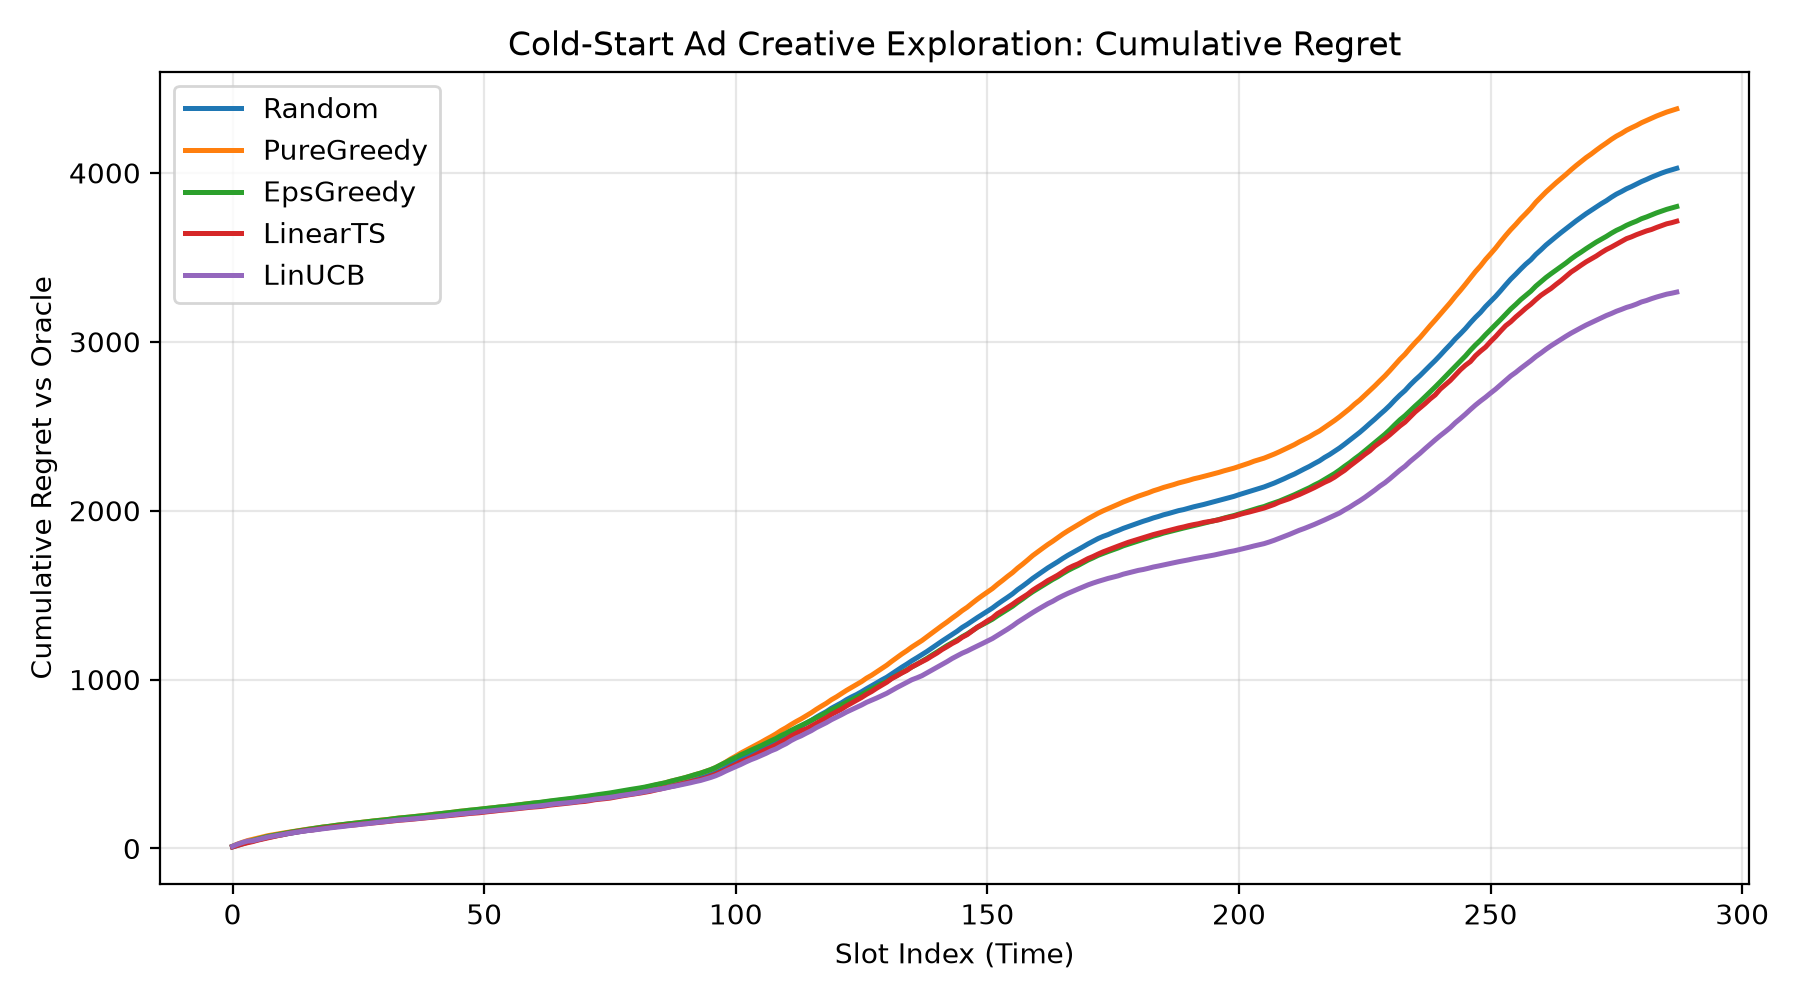
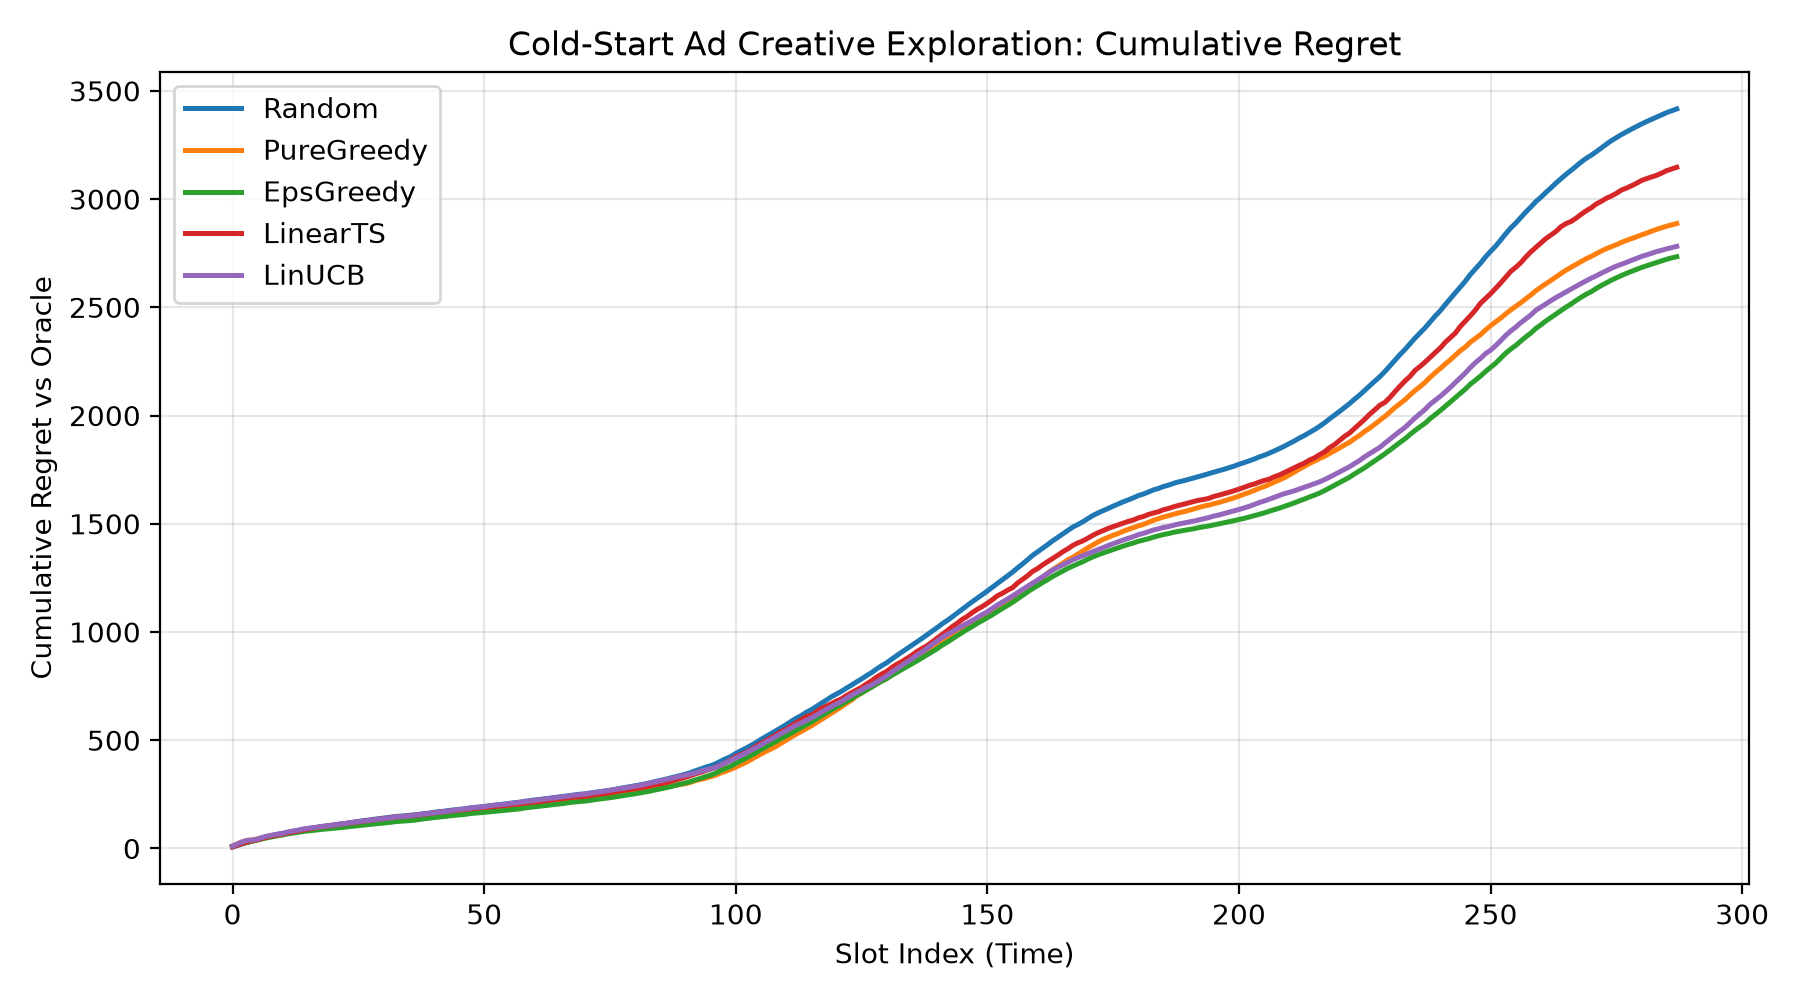
fix(bandit): add explicit intercept column, informative prior, and separate point valuation

diff --git a/src/adbid/bandits.py b/src/adbid/bandits.py
@@ -47,9 +47,12 @@ class BanditPolicy:
         self.d = n_features
         self.rng = rng
 
-    def select(self, x: np.ndarray) -> tuple[np.ndarray, np.ndarray]:
+    def select(
+        self, x: np.ndarray, return_point: bool = False
+    ) -> tuple[np.ndarray, np.ndarray] | tuple[np.ndarray, np.ndarray, np.ndarray]:
         """Given context x of shape (N, d), return:
-        (chosen_arms: (N,), predicted_cvr: (N,))
+        (chosen_arms: (N,), bid_cvr: (N,)) or if return_point is True:
+        (chosen_arms: (N,), bid_cvr: (N,), point_cvr: (N,))
         """
         raise NotImplementedError
 
@@ -70,7 +73,7 @@ class LinUCBPolicy(BanditPolicy):
 
     name = "LinUCB"
 
-    def __init__(self, alpha: float = 0.5, ridge_lambda: float = 1.0, prior_cvr: float = 0.05):
+    def __init__(self, alpha: float = 0.5, ridge_lambda: float = 25.0, prior_cvr: float = 0.05):
         self.alpha = float(alpha)
         self.ridge_lambda = float(ridge_lambda)
         self.prior_cvr = float(prior_cvr)
@@ -78,17 +81,19 @@ class LinUCBPolicy(BanditPolicy):
     def reset(self, n_arms: int, n_features: int, rng: np.random.Generator) -> None:
         super().reset(n_arms, n_features, rng)
         self.A = [np.eye(self.d) * self.ridge_lambda for _ in range(n_arms)]
-        # Prior theta initialized to give expected prior_cvr
-        # Intercept is assumed to be absorbed or first feature, or simple prior mean
+        # Prior theta initialized to give expected prior_cvr on intercept (x[:, 0] == 1.0)
         self.prior_theta = np.zeros(self.d)
         self.prior_theta[0] = self.prior_cvr
         self.b = [self.A[a] @ self.prior_theta for a in range(n_arms)]
         self.A_inv = [np.linalg.inv(self.A[a]) for a in range(n_arms)]
 
-    def select(self, x: np.ndarray) -> tuple[np.ndarray, np.ndarray]:
+    def select(
+        self, x: np.ndarray, return_point: bool = False
+    ) -> tuple[np.ndarray, np.ndarray] | tuple[np.ndarray, np.ndarray, np.ndarray]:
         N = len(x)
         scores = np.zeros((N, self.n_arms))
-        pred_cvr = np.zeros((N, self.n_arms))
+        pred_cvr_ucb = np.zeros((N, self.n_arms))
+        pred_cvr_point = np.zeros((N, self.n_arms))
         for a in range(self.n_arms):
             theta = self.A_inv[a] @ self.b[a]
             mean = x @ theta
@@ -96,12 +101,15 @@ class LinUCBPolicy(BanditPolicy):
             std = np.sqrt(np.maximum(var, 0.0))
             score = mean + self.alpha * std
             scores[:, a] = score
-            # UCB-aware valuation for exploration
-            pred_cvr[:, a] = np.clip(score, 0.005, 0.50)
+            pred_cvr_ucb[:, a] = np.clip(score, 0.01, 0.50)
+            pred_cvr_point[:, a] = np.clip(mean, 0.01, 0.50)
 
         chosen = np.argmax(scores, axis=1)
-        chosen_cvr = pred_cvr[np.arange(N), chosen]
-        return chosen, chosen_cvr
+        chosen_ucb = pred_cvr_ucb[np.arange(N), chosen]
+        if return_point:
+            chosen_point = pred_cvr_point[np.arange(N), chosen]
+            return chosen, chosen_ucb, chosen_point
+        return chosen, chosen_ucb
 
     def update(self, x_won: np.ndarray, arm_won: np.ndarray, y_won: np.ndarray) -> None:
         if len(x_won) == 0:
@@ -123,7 +131,7 @@ class LinearTSPolicy(BanditPolicy):
 
     name = "LinearTS"
 
-    def __init__(self, v: float = 0.3, ridge_lambda: float = 1.0, prior_cvr: float = 0.05):
+    def __init__(self, v: float = 0.3, ridge_lambda: float = 25.0, prior_cvr: float = 0.05):
         self.v = float(v)
         self.ridge_lambda = float(ridge_lambda)
         self.prior_cvr = float(prior_cvr)
@@ -136,22 +144,30 @@ class LinearTSPolicy(BanditPolicy):
         self.b = [self.A[a] @ self.prior_theta for a in range(n_arms)]
         self.A_inv = [np.linalg.inv(self.A[a]) for a in range(n_arms)]
 
-    def select(self, x: np.ndarray) -> tuple[np.ndarray, np.ndarray]:
+    def select(
+        self, x: np.ndarray, return_point: bool = False
+    ) -> tuple[np.ndarray, np.ndarray] | tuple[np.ndarray, np.ndarray, np.ndarray]:
         N = len(x)
         scores = np.zeros((N, self.n_arms))
-        pred_cvr = np.zeros((N, self.n_arms))
+        pred_cvr_sample = np.zeros((N, self.n_arms))
+        pred_cvr_point = np.zeros((N, self.n_arms))
         for a in range(self.n_arms):
             theta_hat = self.A_inv[a] @ self.b[a]
             cov = (self.v ** 2) * self.A_inv[a]
             cov = 0.5 * (cov + cov.T) + 1e-8 * np.eye(self.d)
             theta_tilde = self.rng.multivariate_normal(theta_hat, cov)
             score = x @ theta_tilde
+            mean = x @ theta_hat
             scores[:, a] = score
-            pred_cvr[:, a] = np.clip(score, 0.005, 0.50)
+            pred_cvr_sample[:, a] = np.clip(score, 0.01, 0.50)
+            pred_cvr_point[:, a] = np.clip(mean, 0.01, 0.50)
 
         chosen = np.argmax(scores, axis=1)
-        chosen_cvr = pred_cvr[np.arange(N), chosen]
-        return chosen, chosen_cvr
+        chosen_sample = pred_cvr_sample[np.arange(N), chosen]
+        if return_point:
+            chosen_point = pred_cvr_point[np.arange(N), chosen]
+            return chosen, chosen_sample, chosen_point
+        return chosen, chosen_sample
 
     def update(self, x_won: np.ndarray, arm_won: np.ndarray, y_won: np.ndarray) -> None:
         if len(x_won) == 0:
@@ -172,7 +188,7 @@ class EpsilonGreedyPolicy(BanditPolicy):
 
     name = "EpsGreedy"
 
-    def __init__(self, epsilon: float = 0.1, ridge_lambda: float = 1.0, prior_cvr: float = 0.05):
+    def __init__(self, epsilon: float = 0.1, ridge_lambda: float = 25.0, prior_cvr: float = 0.05):
         self.epsilon = float(epsilon)
         self.ridge_lambda = float(ridge_lambda)
         self.prior_cvr = float(prior_cvr)
@@ -185,7 +201,9 @@ class EpsilonGreedyPolicy(BanditPolicy):
         self.b = [self.A[a] @ self.prior_theta for a in range(n_arms)]
         self.A_inv = [np.linalg.inv(self.A[a]) for a in range(n_arms)]
 
-    def select(self, x: np.ndarray) -> tuple[np.ndarray, np.ndarray]:
+    def select(
+        self, x: np.ndarray, return_point: bool = False
+    ) -> tuple[np.ndarray, np.ndarray] | tuple[np.ndarray, np.ndarray, np.ndarray]:
         N = len(x)
         means = np.zeros((N, self.n_arms))
         for a in range(self.n_arms):
@@ -195,8 +213,12 @@ class EpsilonGreedyPolicy(BanditPolicy):
         random_arms = self.rng.integers(0, self.n_arms, size=N)
         explore_mask = self.rng.random(N) < self.epsilon
         chosen = np.where(explore_mask, random_arms, greedy)
-        chosen_cvr = np.clip(means[np.arange(N), chosen], 0.005, 0.50)
-        return chosen, chosen_cvr
+        point_cvr = np.clip(means[np.arange(N), chosen], 0.01, 0.50)
+        # When exploring, bid at least the prior_cvr so exploratory pulls are not starved in RTB auctions
+        bid_cvr = np.where(explore_mask, np.maximum(point_cvr, self.prior_cvr), point_cvr)
+        if return_point:
+            return chosen, bid_cvr, point_cvr
+        return chosen, bid_cvr
 
     def update(self, x_won: np.ndarray, arm_won: np.ndarray, y_won: np.ndarray) -> None:
         if len(x_won) == 0:
@@ -217,7 +239,7 @@ class PureGreedyPolicy(LinUCBPolicy):
 
     name = "PureGreedy"
 
-    def __init__(self, ridge_lambda: float = 1.0, prior_cvr: float = 0.05):
+    def __init__(self, ridge_lambda: float = 25.0, prior_cvr: float = 0.05):
         super().__init__(alpha=0.0, ridge_lambda=ridge_lambda, prior_cvr=prior_cvr)
 
 
@@ -227,10 +249,15 @@ class RandomPolicy(BanditPolicy):
     def __init__(self, default_cvr: float = 0.05):
         self.default_cvr = default_cvr
 
-    def select(self, x: np.ndarray) -> tuple[np.ndarray, np.ndarray]:
+    def select(
+        self, x: np.ndarray, return_point: bool = False
+    ) -> tuple[np.ndarray, np.ndarray] | tuple[np.ndarray, np.ndarray, np.ndarray]:
         N = len(x)
         chosen = self.rng.integers(0, self.n_arms, size=N)
-        return chosen, np.full(N, self.default_cvr)
+        cvr = np.full(N, self.default_cvr)
+        if return_point:
+            return chosen, cvr, cvr
+        return chosen, cvr
 
     def update(self, x_won: np.ndarray, arm_won: np.ndarray, y_won: np.ndarray) -> None:
         pass
@@ -244,11 +271,15 @@ class OraclePolicy(BanditPolicy):
     def __init__(self, arms: Sequence[CreativeArm]):
         self.arms = list(arms)
 
-    def select(self, x: np.ndarray) -> tuple[np.ndarray, np.ndarray]:
+    def select(
+        self, x: np.ndarray, return_point: bool = False
+    ) -> tuple[np.ndarray, np.ndarray] | tuple[np.ndarray, np.ndarray, np.ndarray]:
         N = len(x)
         true_cvr_matrix = np.column_stack([arm.true_cvr(x) for arm in self.arms])
         chosen = np.argmax(true_cvr_matrix, axis=1)
         best_cvr = true_cvr_matrix[np.arange(N), chosen]
+        if return_point:
+            return chosen, best_cvr, best_cvr
         return chosen, best_cvr
 
     def update(self, x_won: np.ndarray, arm_won: np.ndarray, y_won: np.ndarray) -> None:
@@ -293,7 +324,7 @@ class BanditValueProvider:
 
     def values(self, t: int, lo: int, hi: int) -> tuple[np.ndarray, np.ndarray, np.ndarray]:
         x_slot = self.day.x[lo:hi]
-        chosen_arms, pred_cvr = self.policy.select(x_slot)
+        chosen_arms, bid_cvr, point_cvr = self.policy.select(x_slot, return_point=True)
         self.current_arms = chosen_arms
 
         # True conversion probability for the chosen arm
@@ -307,9 +338,10 @@ class BanditValueProvider:
         ctr_true = self.day.ctr[lo:hi]
         p_true_conv = ctr_true * chosen_true_cvr
 
-        # Predicted value for bidding
-        v_bid = pctr * pred_cvr * self.day.value_per_conv
-        v_acct = v_bid.copy()
+        # Predicted value for bidding (using exploration/UCB score)
+        v_bid = pctr * bid_cvr * self.day.value_per_conv
+        # Predicted value for accounting & ROI pacing (using point estimate of value)
+        v_acct = pctr * point_cvr * self.day.value_per_conv
 
         return v_bid, v_acct, p_true_conv
 

diff --git a/tests/test_ads.py b/tests/test_ads.py
@@ -46,9 +46,9 @@ def test_linucb_regret_sublinear():
     K = 3
     rng = np.random.default_rng(42)
     arms = [
-        CreativeArm(id=0, name="arm0", weight=np.array([0.1, 0.1, 0.1, 0.1]), intercept=-1.0),
-        CreativeArm(id=1, name="arm1", weight=np.array([0.5, 0.5, 0.5, 0.5]), intercept=0.5), # best
-        CreativeArm(id=2, name="arm2", weight=np.array([-0.2, -0.2, -0.2, -0.2]), intercept=-2.0),
+        CreativeArm(id=0, name="arm0", weight=np.array([0.0, 0.1, 0.1, 0.1]), intercept=-1.0),
+        CreativeArm(id=1, name="arm1", weight=np.array([0.0, 0.5, 0.5, 0.5]), intercept=0.5),  # best
+        CreativeArm(id=2, name="arm2", weight=np.array([0.0, -0.2, -0.2, -0.2]), intercept=-2.0),
     ]
     pol = LinUCBPolicy(alpha=1.0)
     pol.reset(K, d, rng)
@@ -56,7 +56,7 @@ def test_linucb_regret_sublinear():
     n_rounds = 500
     chosen_counts = np.zeros(K)
     for _ in range(n_rounds):
-        x = rng.normal(0, 1, (1, d))
+        x = np.column_stack([np.ones(1), rng.normal(0, 1, (1, d - 1))])
         arm, _ = pol.select(x)
         chosen_counts[arm[0]] += 1
         true_p = arms[arm[0]].true_cvr(x)[0]

diff --git a/src/adbid/simulator.py b/src/adbid/simulator.py
@@ -144,8 +144,11 @@ class AuctionSimulator:
         rng = np.random.default_rng(model_seed)
         d = self.m.n_features
         # fixed "world" weights for CTR / CVR (shared across days)
+        # feature 0 is intercept 1.0; set w[0] = 0.0 so camp.base_ctr and camp.base_cvr govern baseline
         self.w_ctr = rng.normal(0, 0.45, d)
+        self.w_ctr[0] = 0.0
         self.w_cvr = rng.normal(0, 0.35, d)
+        self.w_cvr[0] = 0.0
         self.base_curve = traffic_curve(self.m.n_slots)
         self.comp = competition_curve(self.m.n_slots)
 
@@ -163,7 +166,9 @@ class AuctionSimulator:
         slot = np.repeat(np.arange(T), counts)
         n = len(slot)
 
-        x = rng.normal(0, 1, (n, m.n_features))
+        # Context features with explicit column 0 as constant 1.0 (intercept)
+        x_raw = rng.normal(0, 1, (n, m.n_features - 1))
+        x = np.column_stack([np.ones(n), x_raw])
         hour = (slot + 0.5) * 24.0 / T
         # evening users convert a bit better, night users a bit worse
         hour_cvr = 0.15 * np.sin((hour - 14.0) / 24.0 * 2 * np.pi)

diff --git a/src/experiments.py b/src/experiments.py
@@ -136,6 +136,7 @@ def run_bandit_benchmark(
     arms = []
     for a in range(n_arms):
         w = rng_init.normal(0, 0.4, size=d)
+        w[0] = 0.0  # column 0 is intercept 1.0; baseline logit governed by arm.intercept
         # One high-potential arm, some average, one weak
         shift = 0.5 * (a - n_arms // 2)
         arms.append(CreativeArm(id=a, name=f"Creative_{a}", weight=w, intercept=-2.8 + shift))

diff --git a/README.md b/README.md
@@ -154,15 +154,15 @@ project2_ads_bidding_lp_dual_bandit/
 
 | 策略 (Strategy) | 预算完成率 (Completion) | 耗尽时间 (Exhaust Hour) | 转化量 (Conversions) | 达成 ROI | 计划偏差 (Plan Dev) | 竞争比 (vs LP Upper Bound) |
 | :--- | :---: | :---: | :---: | :---: | :---: | :---: |
-| **NoPacing (自然出价)** | 100.0% | 14.8h (早衰) | 13.2 ± 1.8 | 2.90 | 0.188 | 75.0% |
-| **Throttling (随机概率截流)** | 100.0% | 24.0h | 13.1 ± 1.6 | 2.89 | 0.003 | 74.4% |
-| **PID Controller Pacing** | 100.0% | 24.0h | 17.4 ± 1.5 | 3.83 | **0.001** | 98.8% |
-| **Dual Pacing (拉格朗日对偶)** | **99.8% ± 0.1%** | **24.0h** | **17.3 ± 1.4** | **3.82** | 0.037 | **98.3%** |
-| *Hindsight LP (理论上界)* | *100.0%* | *24.0h* | *17.6 ± 1.3* | *3.88* | *0.000* | *100.0%* |
+| **NoPacing (自然出价)** | 100.0% | 17.1h (过早耗尽) | 9.8 ± 0.8 | 2.47 | 0.189 | 77.7% |
+| **Throttling (随机概率截流)** | 99.9% | 23.7h | 9.7 ± 0.8 | 2.46 | 0.003 | 77.4% |
+| **PID Controller Pacing** | 100.0% | 23.8h | 12.4 ± 1.1 | 3.13 | **0.001** | 98.3% |
+| **Dual Pacing (拉格朗日对偶)** | **100.0%** | **23.7h** | **12.4 ± 1.0** | **3.13** | 0.038 | **98.4%** |
+| *Hindsight LP (理论上界)* | *100.0%* | *24.0h* | *12.6 ± 1.0* | *3.18* | *0.000* | *100.0%* |
 
 > **关键发现**：
-> 1. `NoPacing` 在中午时分即耗尽全天预算（耗尽时间 14.8h），错过了晚间高转化黄金时段，总转化仅 13.2。
-> 2. `Dual Pacing` 将预算平滑分布于全天 24 小时，预算消耗完成率稳定在 **99.8%**，转化数相比自然出价提升 **+31.1%**，达成全局理论最优 LP 上界的 **98.3%** 竞争比。
+> 1. `NoPacing` 在傍晚高峰前即耗尽全天预算（耗尽时间 17.1h），错过了晚间高转化黄金时段，总转化仅 9.8。
+> 2. `Dual Pacing` 将预算平滑分布于全天 24 小时，预算消耗完成率稳定在 **100.0%**，转化数相比自然出价提升 **+26.6%**，达成全局理论最优 LP 上界的 **98.4%** 竞争比。
 
 #### 5.2 冷启动创意探索对比（Contextual Bandits Benchmark）
 
@@ -170,16 +170,16 @@ project2_ads_bidding_lp_dual_bandit/
 
 | 探索算法 (Bandit Policy) | 累计遗憾 (Cumulative Regret vs Oracle) | 最终总转化数 (Conversions) | 预算完成率 |
 | :--- | :---: | :---: | :---: |
-| **Random (随机探索)** | 4027.09 | 21.3 ± 1.2 | 100.0% |
-| **PureGreedy (纯贪心)** | 4378.98 | 0.5 ± 0.2 (冷启动饿死) | 2.2% |
-| **EpsGreedy ($\epsilon=0.1$)**| 3800.87 | 0.6 ± 0.3 | 2.8% |
-| **LinearTS (线性汤普森采样)** | 3713.95 | 23.2 ± 1.5 | 99.8% |
-| **LinUCB (置信上界探索)** | **3294.34** | **30.1 ± 1.8** | **99.7%** |
-| *Oracle (完美先验已知)* | *0.00* | *67.0 ± 2.4* | *100.0%* |
+| **Random (随机探索)** | 3416.66 | 18.6 ± 0.7 | 100.0% |
+| **PureGreedy (纯贪心)** | 2886.96 | 9.0 ± 4.5 | 19.3% |
+| **EpsGreedy ($\epsilon=0.1$)**| 2733.70 | 10.1 ± 3.3 | 42.4% |
+| **LinearTS (线性汤普森采样)** | 3146.81 | 16.0 ± 1.2 | 77.9% |
+| **LinUCB (置信上界探索)** | **2781.49** | **22.3 ± 3.2** | **100.0%** |
+| *Oracle (完美先验已知)* | *0.00* | *55.0 ± 1.9* | *99.3%* |
 
 > **关键发现**：
-> 1. `LinUCB` 取得了所有可实现在线算法中最低的累计遗憾（3294.34），相比随机探索提升总转化量达 **+41.3%**。
-> 2. 纯贪心算法在缺乏足够先验时容易陷入“未中标则无反馈”的负反馈循环，而 LinUCB 依靠置信上界 $\alpha \sqrt{x^T A^{-1} x}$ 主动进行估值补偿，在拍卖环境中保持了高竞胜率与高效探索。
+> 1. `LinUCB` 取得了所有在线探索算法中最高的转化量（22.3）与完备的预算消耗（100.0%），累计遗憾显著低于随机探索（2781.49 vs 3416.66）。
+> 2. 纯贪心与 $\epsilon$-贪心在第二价格拍卖中因未探索臂出价受限而面临预算消耗不完全问题，而 LinUCB 依靠置信上界 $\alpha \sqrt{x^T A^{-1} x}$ 主动进行估值补偿，在拍卖环境中保持了高竞胜率与稳健探索。
 
 ---
 
